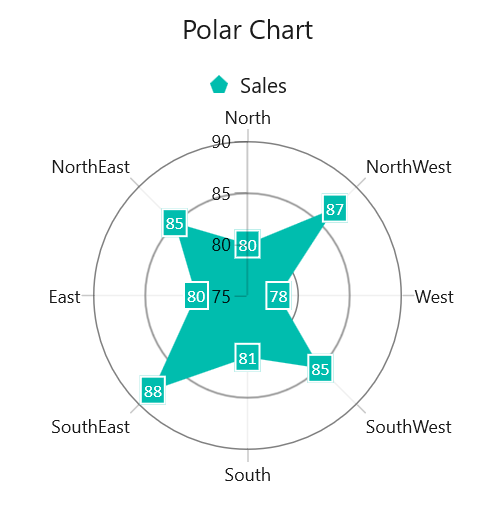
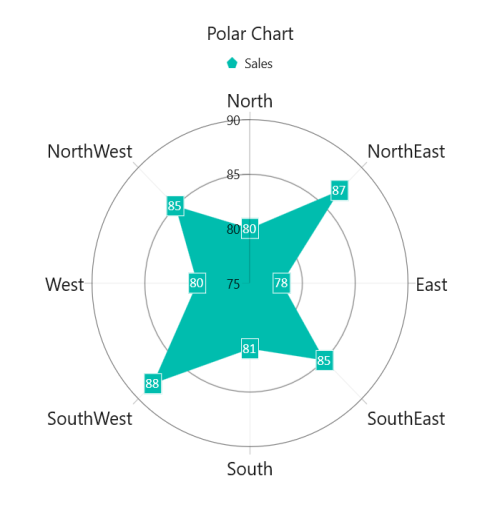
update the image for PolarChart in WinUI demo sample

diff --git a/PolarChartGettingStarted/PolarChartGettingStartedDesktop/ViewModel/ChartViewModel.cs b/PolarChartGettingStarted/PolarChartGettingStartedDesktop/ViewModel/ChartViewModel.cs
@@ -16,13 +16,13 @@ namespace PolarChartGettingStartedDesktop
             Data = new ObservableCollection<Model>()
             {
             new Model(){ Category = "North", Value = 80 },
-            new Model(){ Category = "NorthWest", Value = 87 },
-            new Model(){ Category = "West", Value = 78 },
-            new Model(){ Category = "SouthWest", Value = 85 },
+            new Model(){ Category = "NorthEast", Value = 87 },
+            new Model(){ Category = "East", Value = 78 },
+            new Model(){ Category = "SouthEast", Value = 85 },
             new Model(){ Category = "South", Value = 81 },
-            new Model(){ Category = "SouthEast", Value = 88 },
-            new Model(){ Category = "East", Value = 80 },
-            new Model(){ Category = "NorthEast", Value = 85 },
+            new Model(){ Category = "SouthWest", Value = 88 },
+            new Model(){ Category = "West", Value = 80 },
+            new Model(){ Category = "NorthWest", Value = 85 },
             };
         }
     }

diff --git a/PolarChartGettingStarted/README.md b/PolarChartGettingStarted/README.md
@@ -66,13 +66,13 @@ public class ChartViewModel
         Data = new ObservableCollection<Model>()
         {
             new Model(){ Category = "North", Value = 80 },
-            new Model(){ Category = "NorthWest", Value = 87.5 },
-            new Model(){ Category = "West", Value = 79 },
-            new Model(){ Category = "SouthWest", Value = 83 },
-            new Model(){ Category = "South", Value = 77.5 },
-            new Model(){ Category = "SouthEast", Value = 90 },
-            new Model(){ Category = "East", Value = 77.5 },
-            new Model(){ Category = "NorthEast", Value = 85 },
+            new Model(){ Category = "NorthEast", Value = 87 },
+            new Model(){ Category = "East", Value = 78 },
+            new Model(){ Category = "SouthEast", Value = 85 },
+            new Model(){ Category = "South", Value = 81 },
+            new Model(){ Category = "SouthWest", Value = 88 },
+            new Model(){ Category = "West", Value = 80 },
+            new Model(){ Category = "NorthWest", Value = 85 },
         };
     }
 }
